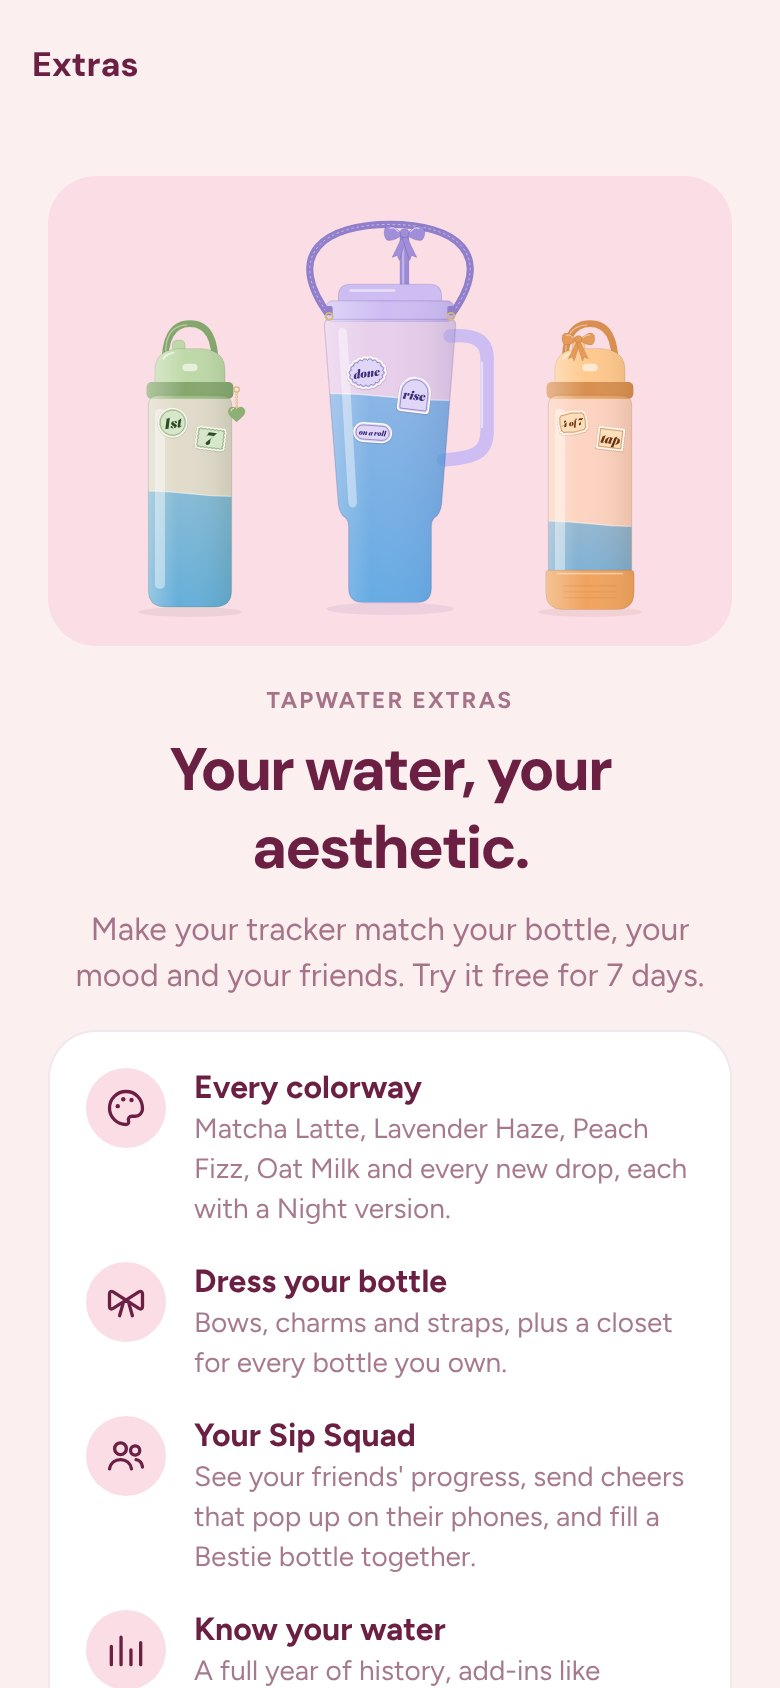
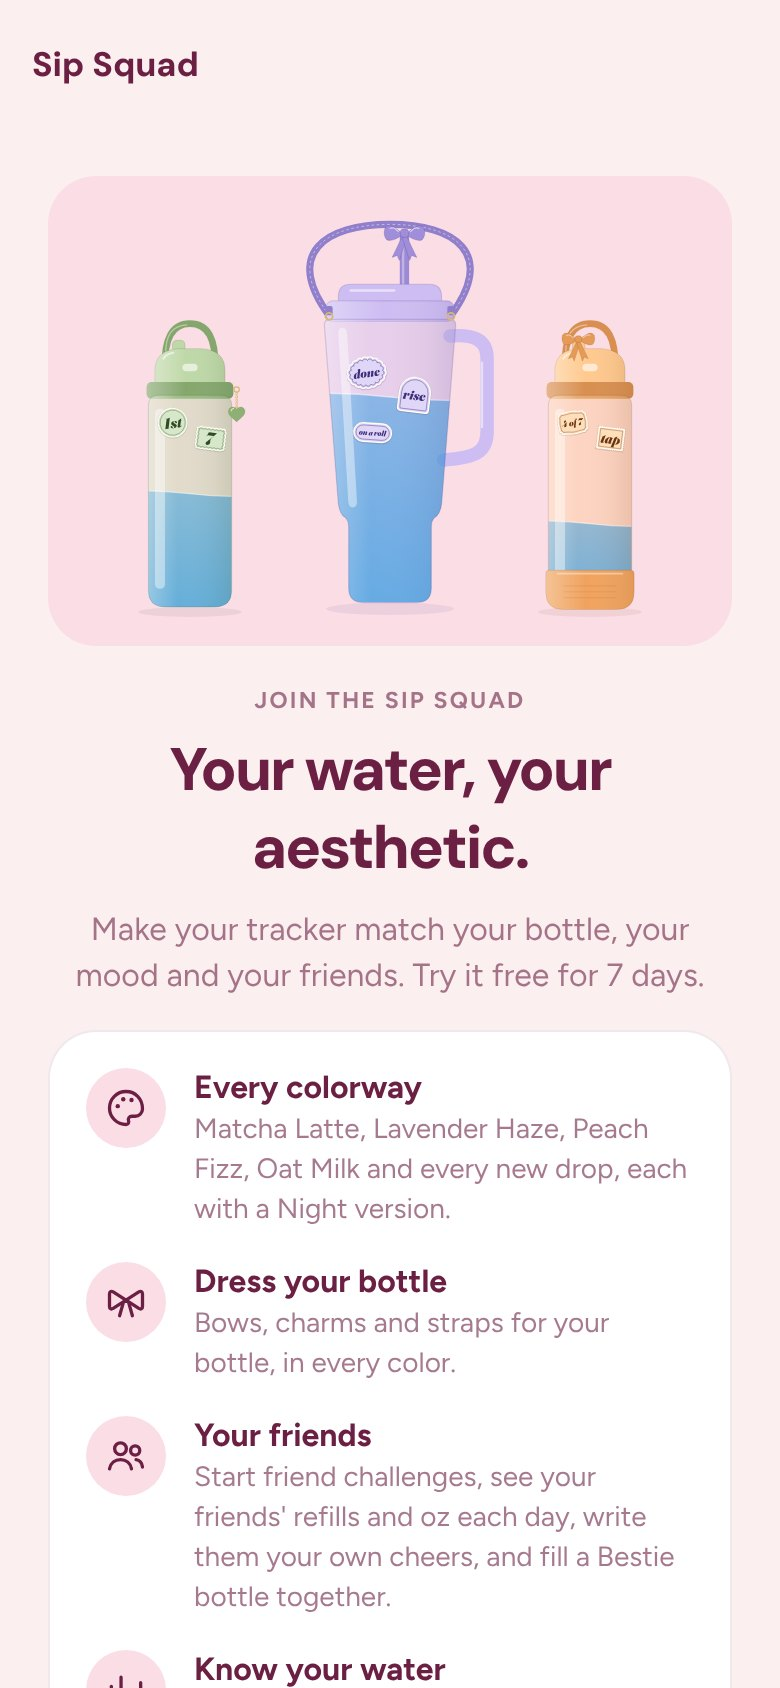
Show friend challenges, bottle styles, Sip Recap and fresh app screenshots; softer Sip Squad copy
Claude-Session: https://claude.ai/code/session_019u9tQgjzi7DiwUbSquqghU

diff --git a/index.html b/index.html
@@ -49,8 +49,25 @@
       </div>
     </div>
     <ul class="pills">
-      <li>Home screen widget</li><li>Evening catch-up</li><li>No account needed</li><li>No ads</li>
+      <li>Home screen widget</li><li>Quick Settings tile on Android</li><li>Count in bottles, like 2 of 4</li><li>Evening catch-up</li><li>No account needed</li><li>No ads</li>
     </ul>
+  </section>
+
+  <section id="friends" class="block tint">
+    <div class="split">
+      <div>
+        <div class="head"><h2>Hydrate with your friends.</h2><p>Add a friend with a six-letter code, send a cheer when they need one, and take on a friend challenge together. Everyone works toward their own goal, so it's teamwork, never a race.</p></div>
+        <dl class="wins">
+          <dt>Bestie streak</dt><dd>Keep a streak going together: every day you both hit your goal.</dd>
+          <dt>Squad week</dt><dd>Up to 6 of you, each hitting your own goal on 5 of the next 7 days.</dd>
+          <dt>Refill relay</dt><dd>Fill one big shared bottle together this week.</dd>
+          <dt>Twinning day</dt><dd>Match colorways for a day and both hit your goal.</dd>
+          <dt>Morning sip pact</dt><dd>Both log a refill before 9am on 5 of the next 7 days.</dd>
+        </dl>
+        <p class="small" style="margin-top:14px">Finish one together and you both get a gold-edition sticker. Anyone can join a challenge for free, and starting one is part of the <a href="sip-squad.html">Sip Squad</a>.</p>
+      </div>
+      <div class="phone2 solo"><img alt="Friend challenges in the app: a bestie streak with Jess and a refill relay" src="shots/friends-challenges.jpg" width="780" height="1782" loading="lazy"></div>
+    </div>
   </section>
 
   <section id="stickers">
@@ -79,12 +96,13 @@
       <div class="mini-cards">
         <div class="card"><h3>Reminders in your tone</h3><p>Cheeky, Sweet or Simple, at the times that suit your day.</p></div>
         <div class="card"><h3>Gentle mode</h3><p>Fewer reminders, quiet hours, and rest days that don't break your streak. No guilt anywhere.</p></div>
+        <div class="card"><h3>Hot day tips</h3><p>On a really warm day, the app offers to add a little to your goal, just for today, if you feel like it.</p></div>
       </div>
     </div>
   </section>
 
   <section id="book">
-    <div class="head"><h2>A sticker for every little win</h2><p>Hit your goal, keep a streak, drink a gallon on a busy day: each one earns a sticker for the My Bottle sticker book. Over 40 to collect, in your colorway.</p></div>
+    <div class="head"><h2>A sticker for every little win</h2><p>Hit your goal, keep a streak, show up on a busy week: each one earns a sticker for the My Bottle sticker book. Over 40 to collect, in your colorway.</p></div>
     <div class="book">
       <img data-book="goal-getter" src="img/stickers/strawberry-milk-goal-getter.png" alt="hydration handled" width="480" height="480" loading="lazy">
       <img data-book="early-bird" src="img/stickers/strawberry-milk-early-bird.png" alt="rise and hydrate" width="480" height="480" loading="lazy">
@@ -92,7 +110,7 @@
       <img data-book="busy-week" src="img/stickers/strawberry-milk-busy-week.png" alt="booked, busy, hydrated" width="480" height="480" loading="lazy">
       <img data-book="streak-100" src="img/stickers/strawberry-milk-streak-100.png" alt="100 days. icon behavior." width="480" height="480" loading="lazy">
       <img data-book="weekend" src="img/stickers/strawberry-milk-weekend.png" alt="weekend wellness club" width="480" height="480" loading="lazy">
-      <img data-book="gallon-girl" src="img/stickers/strawberry-milk-gallon-girl.png" alt="gallon girl" width="480" height="480" loading="lazy">
+      <img data-book="squad-week" src="img/stickers/strawberry-milk-squad-week.png" alt="squad goals, a gold-edition friend challenge sticker" width="480" height="480" loading="lazy">
       <img data-book="travel-day" src="img/stickers/strawberry-milk-travel-day.png" alt="on the go, still glowing" width="480" height="480" loading="lazy">
     </div>
   </section>
@@ -103,17 +121,18 @@
       <div>
         <div class="head"><h2>Little wins that keep you tapping</h2></div>
         <dl class="wins">
+          <dt>Make it yours</dt><dd>Pick the bottle that looks like yours, from a handle tumbler to a straw bottle, big jug or glass cup, then stick your stickers on it.</dd>
           <dt>Streaks</dt><dd>Keep it going and share a cute streak card.</dd>
           <dt>My Bottle sticker book</dt><dd>Earn stickers for goals, weekly challenges and milestones, and stick them on your virtual bottle.</dd>
+          <dt>Sip Recap</dt><dd>A sweet little look back at your month, plus a glow calendar wallpaper for your phone.</dd>
           <dt>50 States</dt><dd>Collect a sticker for every state you drink water in. Optional, and only the state is saved.</dd>
-          <dt>Friends and cheers</dt><dd>Swap six-letter codes to add friends, share your day if you like, and send a cheer when they need one.</dd>
         </dl>
       </div>
     </div>
   </section>
 
   <section id="extras" class="band">
-    <div><h2>Your water, your aesthetic.</h2><p>The tapwater™ Sip Squad unlocks every colorway, bows and charms for your bottle, your friends' daily refills and oz, custom cheers, feel insights and your Year in Water.</p><a class="btn band-btn" href="sip-squad.html">See everything in the Sip Squad</a></div>
+    <div><h2>Join the Sip Squad.</h2><p>It's the extra-cute side of tapwater™. Every colorway, a bow, charm or strap for your bottle, friend challenges you can start, your friends' refills for the day, your own cheer messages, and your Year in Water.</p><a class="btn band-btn" href="sip-squad.html">Take a look</a></div>
     <div class="price-tag"><b>7 days free</b><br><span>then $1.99/month or $12.99/year</span></div>
     <p class="small band-note">Tracking, reminders, bottle stickers and streaks are always free. No subscription needed.</p>
   </section>

diff --git a/sip-squad.html b/sip-squad.html
@@ -70,7 +70,7 @@
     <div>
       <p class="x-kicker">join the sip squad</p>
       <h1>Your water, your aesthetic.</h1>
-      <p class="lead">The Sip Squad is the tapwater™ membership. Match your bottle, dress it up, and keep up with your friends.</p>
+      <p class="lead">The Sip Squad is the tapwater™ membership. Match your bottle, dress it up, and do more with your friends.</p>
       <p class="x-price"><b>7 days free</b><span>then $1.99/month or $12.99/year</span></p>
       <p class="small">Cancel anytime. Tracking, reminders, bottle stickers and streaks stay free forever.</p>
       <div class="ctas"><a class="btn" id="get" aria-disabled="true">Coming soon for iPhone and Android</a></div>
@@ -94,7 +94,7 @@
     <div>
       <h2>Dress your bottle</h2>
       <p>Your virtual bottle, styled like the real one. Add a straw bow, a heart charm or a shoulder strap, then stick on every sticker you earn.</p>
-      <ul><li>Save every bottle you own in your bottle closet</li><li>Tumbler or straw bottle, your pick</li></ul>
+      <ul><li>Bows, charms and straps in your colorway</li><li>Bottle styles and the bottle boot are free for everyone: handle tumbler, straw bottle, sport bottle, big jug or glass cup</li></ul>
     </div>
     <div class="x-shot"><div class="phone2"><img alt="A lavender tumbler with a bow, charm and stickers" src="shots/extras-bottle.jpg" width="780" height="1688" loading="lazy"></div></div>
   </section>
@@ -108,11 +108,19 @@
       <div><b>Maya</b><span class="bar"><span style="width:82%"></span></span><small>5 refills · 52 oz</small></div>
       <div><b>Jess</b><span class="bar"><span style="width:50%"></span></span><small>3 refills · 32 oz</small></div>
       <div><b>Ari</b><span class="bar"><span style="width:100%"></span></span><small>Goal!</small></div>
-      <div class="x-cheer">💌 "race you to 64 oz today!"</div>
+      <div class="x-cheer">💌 "proud of you, bestie!"</div>
     </div>
   </section>
 
   <section class="x-feat flip">
+    <div>
+      <h2>Friend challenges</h2>
+      <p>Start a challenge with your friends and work on it together. Everyone uses their own goal, so it's teamwork, never a race. Finish one and you each get a gold-edition sticker.</p>
+      <ul><li>Bestie streak, Squad week, Refill relay, Twinning day and Morning sip pact</li><li>Your friends can join for free, with or without the Sip Squad</li></ul>
+    </div>
+    <div class="x-shot"><div class="phone2"><img alt="A bestie streak and a refill relay in the app" src="shots/friends-challenges.jpg" width="780" height="1782" loading="lazy"></div></div>
+  </section>
+  <section class="x-feat tint">
     <div>
       <h2>Know your water</h2>
       <p>See how water shows up in how you feel, and look back on your whole year.</p>
@@ -129,10 +137,12 @@
         <tr><td>One-tap logging, reminders, widget</td><td class="yes">✓</td><td class="yes">✓</td></tr>
         <tr><td>Bottle sticker tap logging (no subscription needed)</td><td class="yes">✓</td><td class="yes">✓</td></tr>
         <tr><td>Streaks and the sticker book</td><td class="yes">✓</td><td class="yes">✓</td></tr>
+        <tr><td>Bottle styles and the bottle boot</td><td class="yes">✓</td><td class="yes">✓</td></tr>
         <tr><td>Add friends, share your day and send cheers</td><td class="yes">✓</td><td class="yes">✓</td></tr>
+        <tr><td>Join a friend challenge</td><td class="yes">✓</td><td class="yes">✓</td></tr>
         <tr><td>Colorways</td><td>2</td><td class="yes">All, plus new drops</td></tr>
         <tr><td>Bow, charm and strap for your bottle</td><td class="no">–</td><td class="yes">✓</td></tr>
-        <tr><td>Bottle closet</td><td class="no">–</td><td class="yes">✓</td></tr>
+        <tr><td>Start a friend challenge</td><td class="no">–</td><td class="yes">✓</td></tr>
         <tr><td>Friends' refills and oz, your own cheer messages, Bestie bottles</td><td class="no">–</td><td class="yes">✓</td></tr>
         <tr><td>Add-ins, feel insights, full history</td><td class="no">–</td><td class="yes">✓</td></tr>
         <tr><td>Year in Water story</td><td class="no">–</td><td class="yes">✓</td></tr>
@@ -154,7 +164,7 @@
     <details><summary>Is tracking still free?</summary><p>Yes. Logging water, reminders, bottle sticker taps, streaks and the sticker book are free forever.</p></details>
     <details><summary>Do the bottle stickers need the Sip Squad?</summary><p>No. Tap Water™ bottle stickers work with the free app. No subscription needed.</p></details>
     <details><summary>How do I cancel?</summary><p>Anytime in your App Store or Google Play subscriptions, at least a day before your trial or plan renews.</p></details>
-    <details><summary>Do my friends need to join too?</summary><p>No. Anyone can add friends and share their day for free. Anyone can add friends and send cheers for free. Joining lets you see their refills and oz and write your own messages.</p></details>
+    <details><summary>Do my friends need to join too?</summary><p>No. Anyone can add friends, share their day, send cheers and join a friend challenge for free. In the Sip Squad you also see your friends' refills and oz, write your own messages and start challenges.</p></details>
   </section>
 </main>
 <footer class="wrap"><span>© 2026 Tap Water. One tap. One refill.</span><nav><a href="privacy.html">Privacy</a><a href="support.html">Help</a><a href="./#stickers">Sticker shop</a><a href="giving.html">Giving</a></nav></footer>
